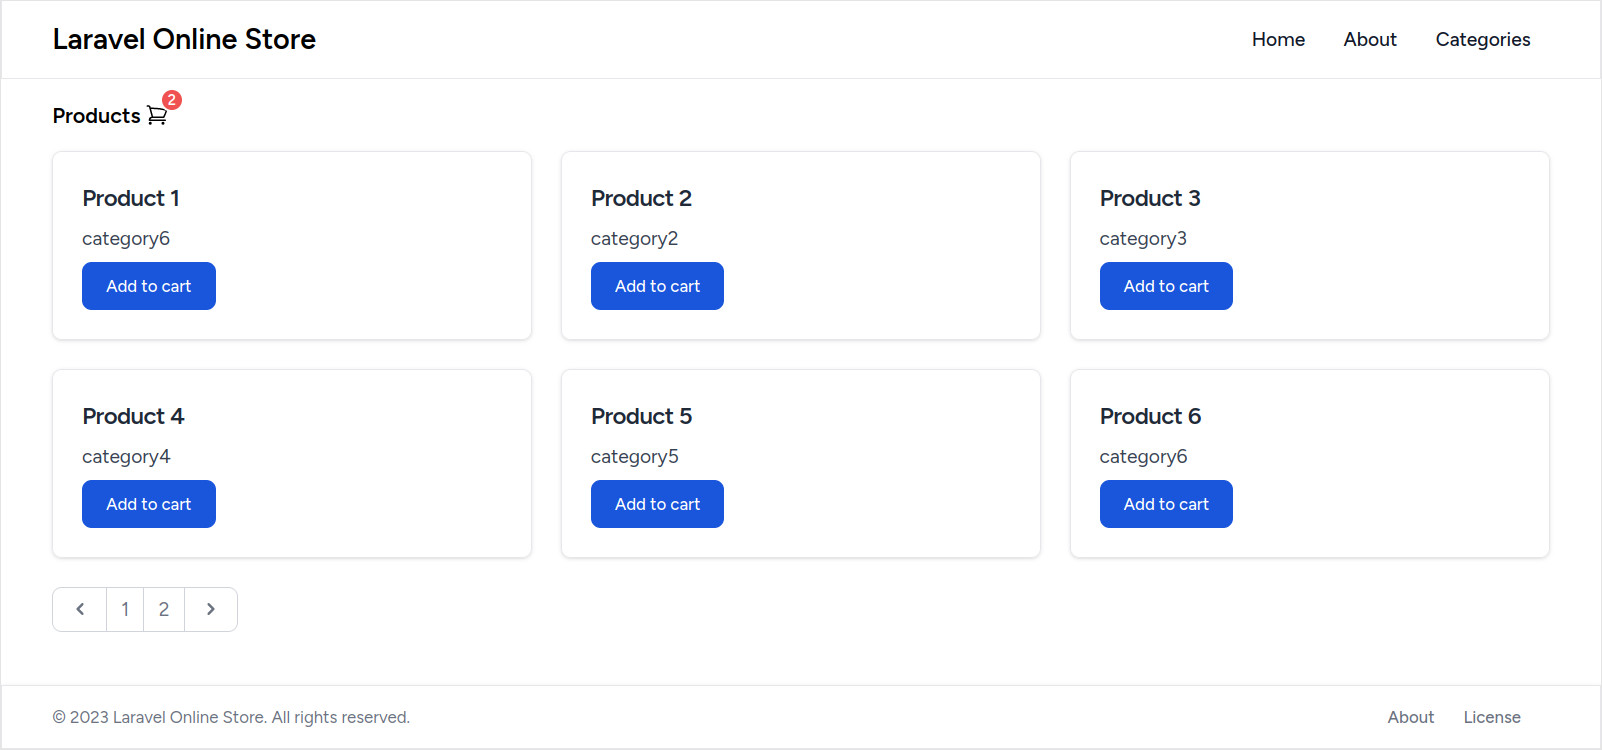
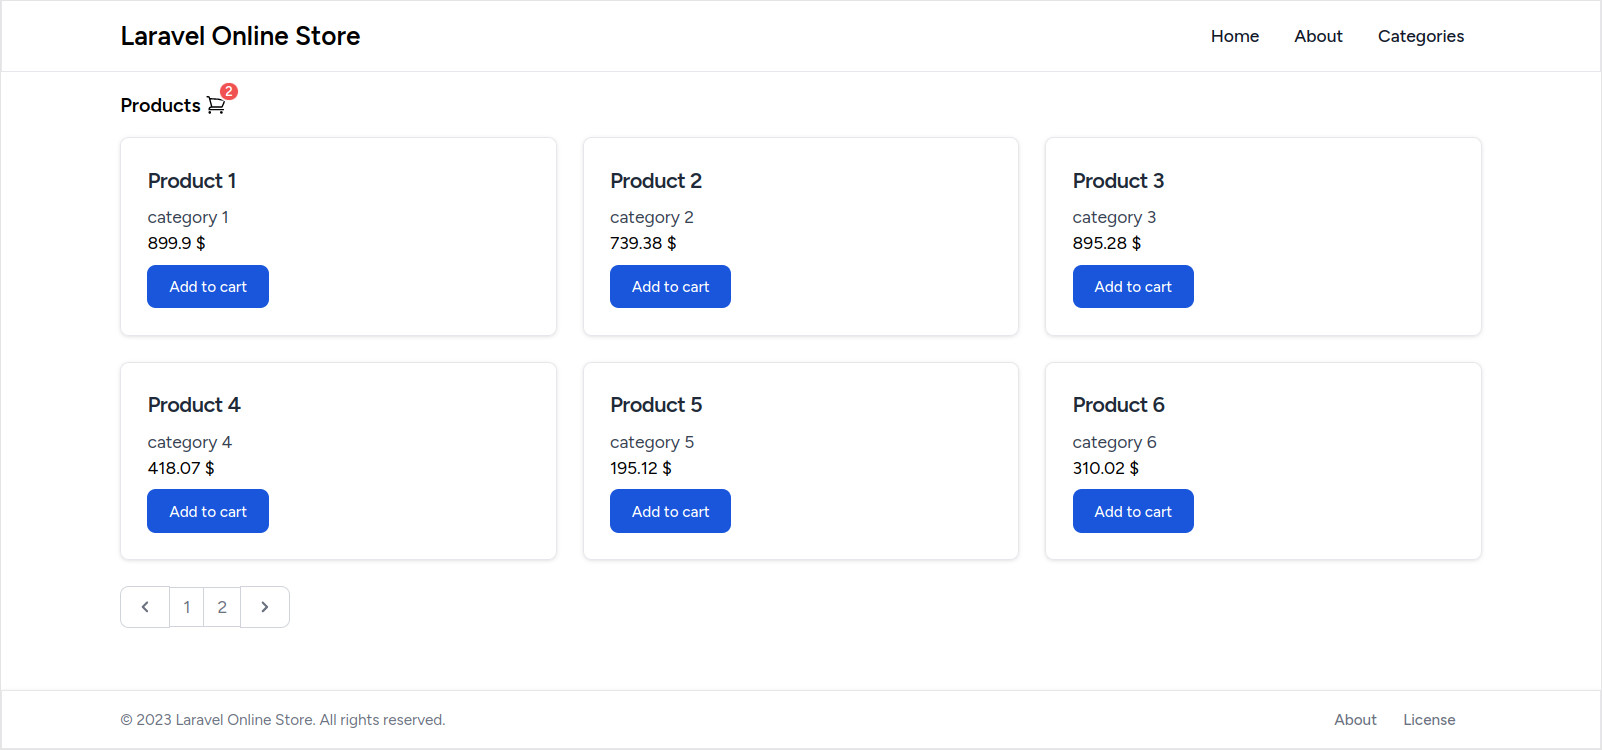
Add saving a shopping cart to the database

diff --git a/resources/js/Components/Cart.vue b/resources/js/Components/Cart.vue
@@ -1,32 +1,33 @@
 <script setup>
+import axios from 'axios';
 import { onMounted, ref } from 'vue';
 
-let $products = ref({});
-let $productsCount = ref(0);
+const $products = ref([]);
+const $productsCount = ref(0);
 const $btnCloseModal = ref(null);
 
 const loadProducts = () => {
-    const serializedProducts = { ...localStorage };
-    const deserializedProducts = {};
-    const keys = Object.keys(serializedProducts);
-
-    try {
-        for (let k of keys) {
-            deserializedProducts[k] = JSON.parse(serializedProducts[k]);
-        }
-    } catch (e) {
-        console.error(e);
-    }
-
-    $products.value = deserializedProducts;
-    $productsCount.value = keys.length;
+    axios.get('/cart/loadProducts')
+        .then(response => {
+            $products.value = response.data.products;
+            $productsCount.value = response.data.count;
+        })
+        .catch(error => {
+            $products.value = [];
+            $productsCount.value = 0;
+            console.error(error);
+        });
 };
 
 const clearCart = () => {
-    localStorage.clear();
-    $products.value = {};
-    $productsCount.value = 0;
-    $btnCloseModal.value.click();
+    axios.get('/cart/clear')
+        .then(response => {
+            $products.value = [];
+            $productsCount.value = 0;
+            $btnCloseModal.value.click();
+            console.log(response.data.message);
+        })
+        .catch(error => console.error(error));
 };
 
 onMounted(() => loadProducts());
@@ -75,11 +76,11 @@ defineExpose({
                         <span class="sr-only">{{ $t('Close modal') }}</span>
                     </button>
                 </div>
-                <div v-if="Object.keys($products).length > 0">
+                <div v-if="$products">
                     <!-- Modal body -->
                     <div class="p-6 space-y-6">
                         <div v-for="product in $products" :key="product.id">
-                            <div>{{ product.name }} <span>{{ product.category.name }}</span></div>
+                            <div>{{ product.name }} <span>{{ product.price }} $</span></div>
                         </div>
                     </div>
                     <!-- Modal footer -->

diff --git a/resources/js/Pages/Index.vue b/resources/js/Pages/Index.vue
@@ -4,6 +4,7 @@ import { Head } from '@inertiajs/vue3';
 import OnlineStoreLayout from '@/Layouts/OnlineStoreLayout.vue';
 import Cart from '@/Components/Cart.vue';
 import Pagination from '@/Components/Pagination.vue';
+import axios from 'axios';
 
 const $cart = ref(null);
 
@@ -12,12 +13,12 @@ defineProps({
 });
 
 const addProductToCart = (product) => {
-    if (localStorage.getItem(product.id) === null) {
-        localStorage.setItem(product.id, JSON.stringify(product));
-        $cart.value.loadProducts();
-    } else {
-        alert('Product already was added');
-    }
+    axios.post('/cart/addProduct', product)
+        .then(response => {
+            $cart.value.loadProducts();
+            console.log(response.data.message);
+        })
+        .catch(error => console.error(error));
 };
 </script>
 
@@ -40,6 +41,7 @@ const addProductToCart = (product) => {
                     </h2>
                     <div class="font-normal text-gray-700 dark:text-gray-400"><a
                             :href="`/?category=${product.category.id}`">{{ product.category.name }}</a></div>
+                    <div>{{ product.price }} $</div>
                     <button type="button"
                         class="w-full sm:w-auto text-white bg-blue-700 hover:bg-blue-800 focus:ring-4 focus:ring-blue-300 font-medium rounded-lg text-sm px-5 py-2.5 mt-2 dark:bg-blue-600 dark:hover:bg-blue-700 focus:outline-none dark:focus:ring-blue-800"
                         @click="addProductToCart(product)">{{ $t('Add to cart') }}</button>

diff --git a/app/Models/CartItem.php b/app/Models/CartItem.php
@@ -2,6 +2,7 @@
 
 namespace App\Models;
 
+use Illuminate\Database\Eloquent\Collection;
 use Illuminate\Database\Eloquent\Concerns\HasUuids;
 use Illuminate\Database\Eloquent\Factories\HasFactory;
 use Illuminate\Database\Eloquent\Model;
@@ -26,6 +27,13 @@ class CartItem extends Model
         'id',
     ];
 
+    protected $fillable = [
+        'cart_id',
+        'product_id',
+        'price',
+        'quantity',
+    ];
+
     public function cart(): BelongsTo
     {
         return $this->belongsTo(Cart::class);
@@ -34,5 +42,41 @@ class CartItem extends Model
     public function product(): BelongsTo
     {
         return $this->belongsTo(Product::class);
+    }
+
+    public function addProduct(string $cartId, string $productId): ?string
+    {
+        $product = Product::findOrFail($productId);
+        $cartItem = CartItem::where('cart_id', $cartId)
+            ->where('product_id', $productId)->first();
+        $message = __('cart.add_warning');
+
+        if (is_null($cartItem)) {
+            $message = null;
+            CartItem::create([
+                'cart_id' => $cartId,
+                'product_id' => $productId,
+                'price' => $product->price,
+                'quantity' => 1,
+            ]);
+        }
+
+        return $message;
+    }
+
+    public function loadProducts(): ?Collection
+    {
+        $sessionId = session()->getId();
+        $cart = Cart::where('session_id', $sessionId)->first();
+
+        if (is_null($cart)) {
+            return null;
+        }
+
+        return CartItem::where('cart_id', $cart->id)
+            ->join('products', 'product_id', '=', 'products.id')
+            ->select('products.name', 'products.price')
+            ->get()
+        ;
     }
 }

diff --git a/app/Orchid/Resources/CartResource.php b/app/Orchid/Resources/CartResource.php
@@ -45,11 +45,13 @@ class CartResource extends Resource
 
                     return "<a href='{$url}'>{$c->id}</a>";
                 }),
+            TD::make('session_id', __('Session ID')),
             TD::make('order_id', __('Order'))
                 ->render(function ($c) {
-                    $url = "/admin/crud/view/order-resources/{$c->order->id}";
+                    $orderId = $c->order ? $c->order->id : null;
+                    $url = "/admin/crud/view/order-resources/{$orderId}";
 
-                    return "<a href='{$url}'>{$c->order->id}</a>";
+                    return "<a href='{$url}'>{$orderId}</a>";
                 }),
         ];
     }
@@ -63,11 +65,13 @@ class CartResource extends Resource
     {
         return [
             Sight::make('id', 'ID'),
+            Sight::make('session_id', __('Session ID')),
             Sight::make('order_id', __('Order'))
                 ->render(function ($c) {
-                    $url = "/admin/crud/view/order-resources/{$c->order->id}";
+                    $orderId = $c->order ? $c->order->id : null;
+                    $url = "/admin/crud/view/order-resources/{$orderId}";
 
-                    return "<a href='{$url}'>{$c->order->id}</a>";
+                    return "<a href='{$url}'>{$orderId}</a>";
                 }),
         ];
     }

diff --git a/app/Http/Controllers/CartController.php b/app/Http/Controllers/CartController.php
@@ -1,0 +1,43 @@
+<?php
+
+namespace App\Http\Controllers;
+
+use App\Models\Cart;
+use App\Models\CartItem;
+use Illuminate\Http\Request;
+
+class CartController extends Controller
+{
+    public function addProduct(Request $request)
+    {
+        $productId = $request->input('id');
+        $sessionId = session()->getId();
+
+        $cart = (new Cart())->getOrCreateCartBySessionId($sessionId);
+
+        $message = (new CartItem())->addProduct($cart->id, $productId);
+
+        return response()->json([
+            'message' => $message ?? __('cart.add'),
+        ]);
+    }
+
+    public function loadProducts()
+    {
+        $products = (new CartItem())->loadProducts();
+
+        return response()->json([
+            'products' => $products,
+            'count' => $products ? count($products) : 0,
+        ]);
+    }
+
+    public function clear()
+    {
+        $message = (new Cart())->clear();
+
+        return response()->json([
+            'message' => $message,
+        ]);
+    }
+}

diff --git a/app/Orchid/Resources/ProductResource.php b/app/Orchid/Resources/ProductResource.php
@@ -47,6 +47,10 @@ class ProductResource extends Resource
                     return "<a href='{$url}'>{$p->id}</a>";
                 }),
             TD::make('name', __('Title')),
+            TD::make('price', __('Price'))
+                ->render(function ($p) {
+                    return "{$p->price} $";
+                }),
             TD::make('category_id', __('Category'))
                 ->render(function ($p) {
                     $url = "/admin/crud/view/category-resources/{$p->category->id}";
@@ -66,6 +70,10 @@ class ProductResource extends Resource
         return [
             Sight::make('id', 'ID'),
             Sight::make('name', __('Title')),
+            Sight::make('price', __('Price'))
+                ->render(function ($p) {
+                    return "{$p->price} $";
+                }),
             Sight::make('category_id', __('Category'))
                 ->render(function ($p) {
                     $url = "/admin/crud/view/category-resources/{$p->category->id}";

diff --git a/app/Models/Cart.php b/app/Models/Cart.php
@@ -27,6 +27,10 @@ class Cart extends Model
         'id',
     ];
 
+    protected $fillable = [
+        'session_id',
+    ];
+
     public function order(): BelongsTo
     {
         return $this->belongsTo(Order::class);
@@ -35,5 +39,26 @@ class Cart extends Model
     public function cartItems(): HasMany
     {
         return $this->hasMany(CartItem::class);
+    }
+
+    public function getOrCreateCartBySessionId(string $sessionId): self
+    {
+        $cart = Cart::where('session_id', $sessionId)->first();
+
+        if (is_null($cart)) {
+            $cart = Cart::create([
+                'session_id' => $sessionId,
+            ]);
+        }
+
+        return $cart;
+    }
+
+    public function clear(): ?string
+    {
+        $sessionId = session()->getId();
+        $deleted = Cart::where('session_id', $sessionId)->delete();
+
+        return $deleted ? __('cart.clear') : null;
     }
 }

diff --git a/routes/web.php b/routes/web.php
@@ -1,8 +1,8 @@
 <?php
 
+use App\Http\Controllers\CartController;
 use App\Http\Controllers\ProductController;
 use App\Http\Controllers\ProfileController;
-use Illuminate\Foundation\Application;
 use Illuminate\Support\Facades\Route;
 use Inertia\Inertia;
 
@@ -19,6 +19,10 @@ use Inertia\Inertia;
 
 Route::get('/', [ProductController::class, 'index'])->name('index');
 Route::get('/products/{productId}', [ProductController::class, 'show'])->name('products.show');
+
+Route::post('/cart/addProduct', [CartController::class, 'addProduct'])->name('cart.addProduct');
+Route::get('/cart/loadProducts', [CartController::class, 'loadProducts'])->name('cart.loadProducts');
+Route::get('/cart/clear', [CartController::class, 'clear'])->name('cart.clear');
 
 Route::get('/dashboard', function () {
     return Inertia::render('Dashboard');

diff --git a/database/migrations/2023_04_19_200235_create_carts_table.php b/database/migrations/2023_04_19_200235_create_carts_table.php
@@ -12,7 +12,8 @@ return new class() extends Migration {
     {
         Schema::create('carts', function (Blueprint $table) {
             $table->uuid('id')->primary();
-            $table->unsignedBigInteger('order_id')->index();
+            $table->string('session_id');
+            $table->unsignedBigInteger('order_id')->nullable()->index();
             $table
                 ->foreign('order_id')
                 ->on('orders')

diff --git a/database/migrations/2023_04_19_201200_create_cart_items_table.php b/database/migrations/2023_04_19_201200_create_cart_items_table.php
@@ -28,8 +28,8 @@ return new class() extends Migration {
                 ->cascadeOnUpdate()
                 ->cascadeOnDelete()
             ;
-            $table->decimal('price', 8, 2);
-            $table->integer('quantity');
+            $table->decimal('price', 8, 2)->default(0);
+            $table->integer('quantity')->default(1);
             $table->timestamps();
         });
     }

diff --git a/database/migrations/2023_04_19_202843_create_products_table.php b/database/migrations/2023_04_19_202843_create_products_table.php
@@ -13,6 +13,7 @@ return new class() extends Migration {
         Schema::create('products', function (Blueprint $table) {
             $table->uuid('id')->primary();
             $table->string('name', 20);
+            $table->decimal('price', 8, 2)->default(0);
             $table->unsignedBigInteger('category_id')->index();
             $table
                 ->foreign('category_id')

diff --git a/lang/ru/cart.php b/lang/ru/cart.php
@@ -1,0 +1,9 @@
+<?php
+
+declare(strict_types=1);
+
+return [
+    'add' => 'Товар успешно добавлен в корзину.',
+    'add_warning' => 'Товар уже добавлен в корзину.',
+    'clear' => 'Корзина была успешно очищена.',
+];
